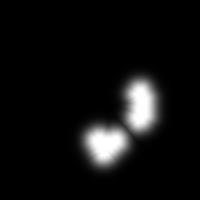
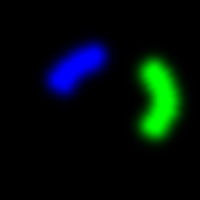
working hulkl code

Changed region(s): [[0.39, 0.24, 0.93, 0.87], [0.18, 0.18, 0.57, 0.51]]

diff --git a/src/dataset.py b/src/dataset.py
@@ -65,10 +65,11 @@ def vis_gauss(img, gaussians):
     gaussians = gaussians.cpu().numpy().transpose(1, 2, 0)
     img = img.cpu().numpy().transpose(1, 2, 0) * 255.0
     # repeat last dimension 3 times
-    gaussians = np.tile(gaussians, (1, 1, 3))
+    # gaussians = np.tile(gaussians, (1, 1, 1))
+    gaussians = np.concatenate((gaussians, np.zeros_like(gaussians[:, :, :1])), axis=2)
     h1 = gaussians
     output = cv2.normalize(h1, None, 0, 255, cv2.NORM_MINMAX)
-    # cv2.imwrite('test-gaussians.png', output)
+    cv2.imwrite('test-gaussians.png', output)
     cv2.imwrite('test-img.png', img)
 
 def bimodal_gauss(G1, G2, normalize=False):
@@ -190,9 +191,11 @@ class KeypointsDataset(Dataset):
             masked_img = pull_with_cable_and_masked_img[:, :, 6:9].copy()
             condition_with_cable = pull_with_cable_and_masked_img[:, :, 9:12].copy()
             # print(pull_with_cable.shape, masked_img.shape)
+            # plt.imshow(condition_with_cable)
+            # plt.savefig('condition_with_cable.png')
 
             if self.crop:
-                random_padding = np.random.randint(0, 50, size=(4,))
+                random_padding = np.random.randint(0, 200, size=(4,)) # used to be 50
                 minx = max(int(min(bbox_corners.keypoints[0].x, bbox_corners.keypoints[1].x, bbox_corners.keypoints[2].x, bbox_corners.keypoints[3].x)) - random_padding[0], 0)
                 miny = max(int(min(bbox_corners.keypoints[0].y, bbox_corners.keypoints[1].y, bbox_corners.keypoints[2].y, bbox_corners.keypoints[3].y)) - random_padding[1], 0)
                 maxx = min(int(max(bbox_corners.keypoints[0].x, bbox_corners.keypoints[1].x, bbox_corners.keypoints[2].x, bbox_corners.keypoints[3].x)) + random_padding[2], img.shape[1]-1)
@@ -206,6 +209,9 @@ class KeypointsDataset(Dataset):
                 pull_with_cable_cropped1 = pull_with_cable1[miny:maxy, minx:maxx]
                 pull_with_cable_cropped2 = pull_with_cable2[miny:maxy, minx:maxx]
                 condition_with_cable_cropped = condition_with_cable[miny:maxy, minx:maxx] * 1 #np.random.randint(0, 2) # on or off condition
+
+            # plt.imshow(condition_with_cable_cropped)
+            # plt.savefig('condition_with_cable_cropped.png')
 
             # cv2.imwrite('combined.png', combined)
             # cv2.imwrite('pull_with_cable_cropped.png', pull_with_cable_cropped)
@@ -232,7 +238,7 @@ class KeypointsDataset(Dataset):
         if self.condition and condition_with_cable_cropped.sum() > 0:
             cond_V, cond_U = np.nonzero(condition_with_cable_cropped[:, :, 0])
             cond_U, cond_V = torch.from_numpy(np.array([cond_U, cond_V], dtype=np.int32)).cuda()
-            combined[0] = get_gauss(self.img_width, self.img_height, self.gauss_sigma, U, V)
+            combined[0] = get_gauss(self.img_width, self.img_height, self.gauss_sigma, cond_U, cond_V)
         else:
             combined[0] = 0
 
@@ -248,7 +254,7 @@ if __name__ == '__main__':
     GAUSS_SIGMA = 8
     test_dataset = KeypointsDataset('/host/%s/train'%TEST_DIR,
                            IMG_HEIGHT, IMG_WIDTH, transform, gauss_sigma=GAUSS_SIGMA, only_full=True, condition=True)
-    img, gaussians = test_dataset[-1] #[-1] #
+    img, gaussians = test_dataset[-3] #[-1] #
     vis_gauss(img, gaussians)
  
 

diff --git a/analysis.py b/analysis.py
@@ -27,7 +27,7 @@ os.environ["CUDA_VISIBLE_DEVICES"]="1"
 # model_ckpts = ["hulkL_aug_cond_only_LARGE/model_2_1_498_0.40725811529030426.pth"]
 
 # WITH TWO HEATMAPS
-model_ckpts = ["hulkL_aug_cond_only_LARGE_2heatmaps/model_2_1_498_0.24552234291118114.pth"]
+model_ckpts = ["hulkL_aug_cond_only_LARGE_2heatmaps_RESUME_200_rand_padding/model_2_1_498_0.18728861864742946.pth"]
 
 # cuda
 use_cuda = torch.cuda.is_available()
@@ -155,7 +155,7 @@ for i, f in enumerate(test_data):
     # display image and user will click on two points
     plt.clf()
     plt.imshow(img_t[0].squeeze().detach().cpu().numpy().transpose(1,2,0))
-    plt.savefig(f'preds_custom_LARGE_2heatmaps_detectron/test_full_img_{i}_{cond_on}_{cond_min_x}_{cond_max_x}_{cond_min_y}_{cond_max_y}' + '.png')
+    plt.savefig(f'preds_custom_LARGE_2heatmaps_detectron_RESUME_200_rand_padding/test_full_img_{i}_{cond_on}_{cond_min_x}_{cond_max_x}_{cond_min_y}_{cond_max_y}' + '.png')
 
     # # get the points the user clicked
     # points = plt.ginput(2)
@@ -180,7 +180,7 @@ for i, f in enumerate(test_data):
         plt.subplot(1, len(predictions), j+1)
         plt.imshow(horiz_concat)
         plt.title("Model %d"%(j+1))
-    plt.savefig(f'preds_custom_LARGE_2heatmaps_detectron/test_heatmaps_{i}_{cond_on}_{cond_min_x}_{cond_max_x}_{cond_min_y}_{cond_max_y}' + '.png')
+    plt.savefig(f'preds_custom_LARGE_2heatmaps_detectron_RESUME_200_rand_padding/test_heatmaps_{i}_{cond_on}_{cond_min_x}_{cond_max_x}_{cond_min_y}_{cond_max_y}' + '.png')
 
     # TODO: WHAT IS THE REGION THAT HULK_L SHOULD REALLY BE FOCUSING ON?
     # TODO: WHAT ARE ALL THE WAYS OF THINKING ABOUT HOW HUMANS DO FROM ENDPOINT UNTANGLING

diff --git a/train.py b/train.py
@@ -14,7 +14,7 @@ from src.dataset import TEST_DIR, KeypointsDataset, transform
 MSE = torch.nn.MSELoss()
 bceLoss = nn.BCELoss
 
-os.environ["CUDA_VISIBLE_DEVICES"]="2"
+os.environ["CUDA_VISIBLE_DEVICES"]="3"
 
 def forward(sample_batched, model):
     img, gt_gauss = sample_batched
@@ -53,7 +53,7 @@ def fit(train_data, test_data, model, epochs, checkpoint_path = ''):
 
 # dataset
 workers=0
-dataset_dir = 'hulkL_aug_cond_only_LARGE_2heatmaps'
+dataset_dir = 'hulkL_aug_cond_only_LARGE_2heatmaps_RESUME_200_rand_padding'
 output_dir = 'checkpoints'
 save_dir = os.path.join(output_dir, dataset_dir)
 
